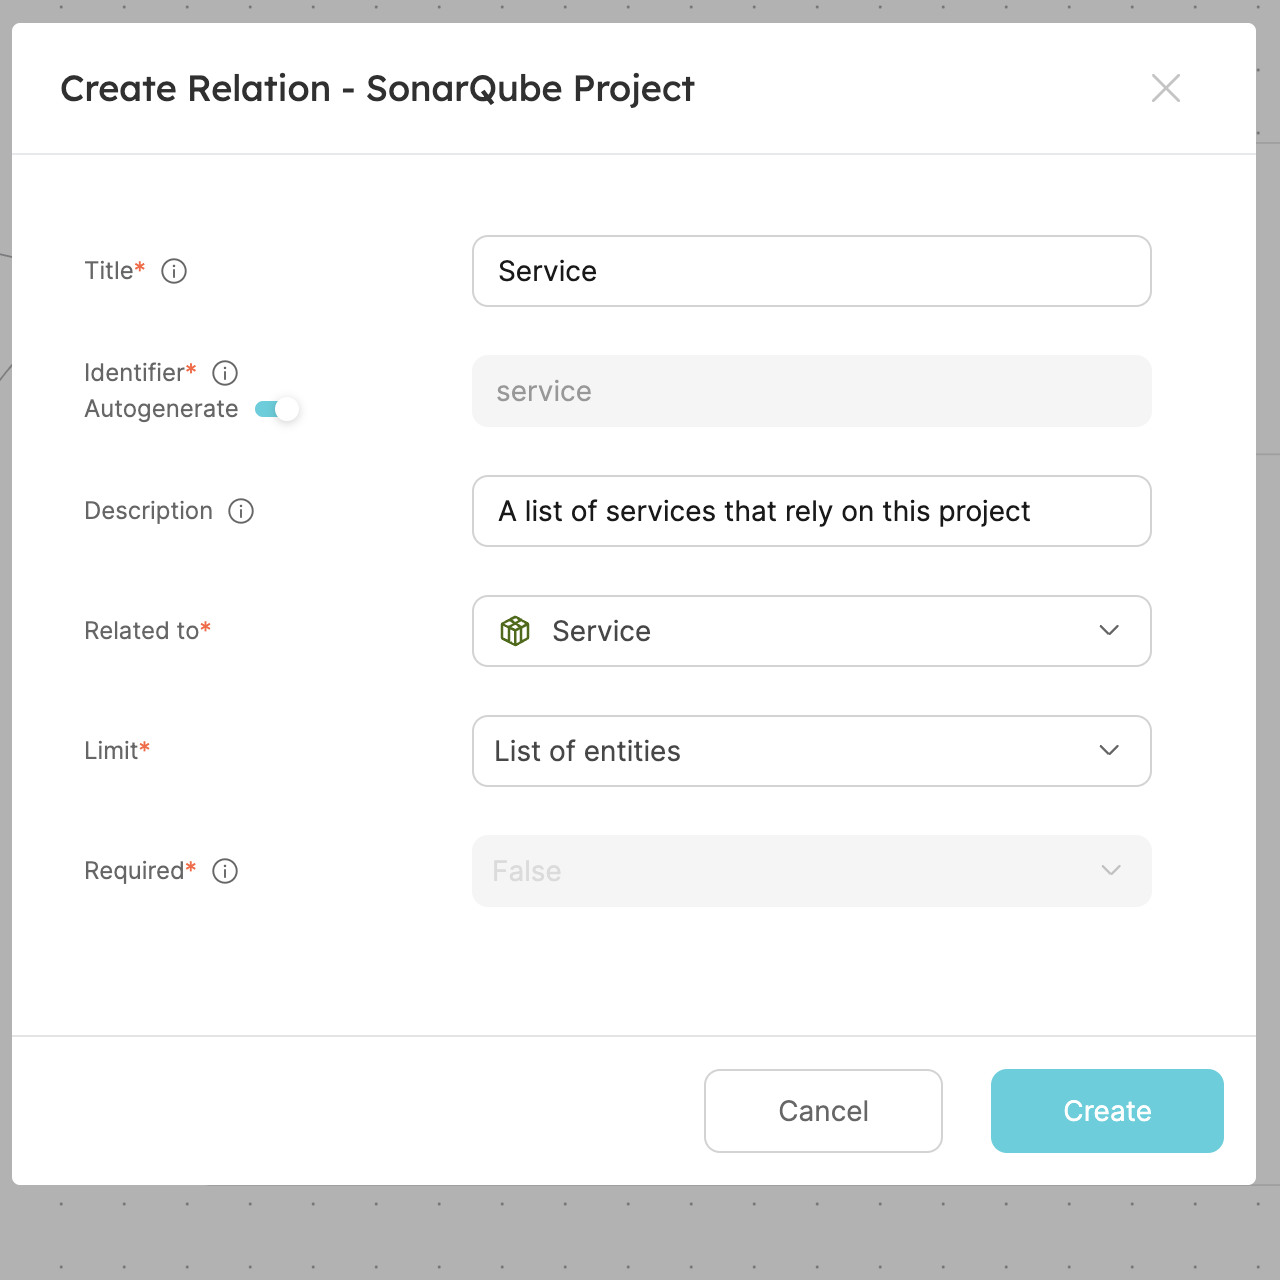
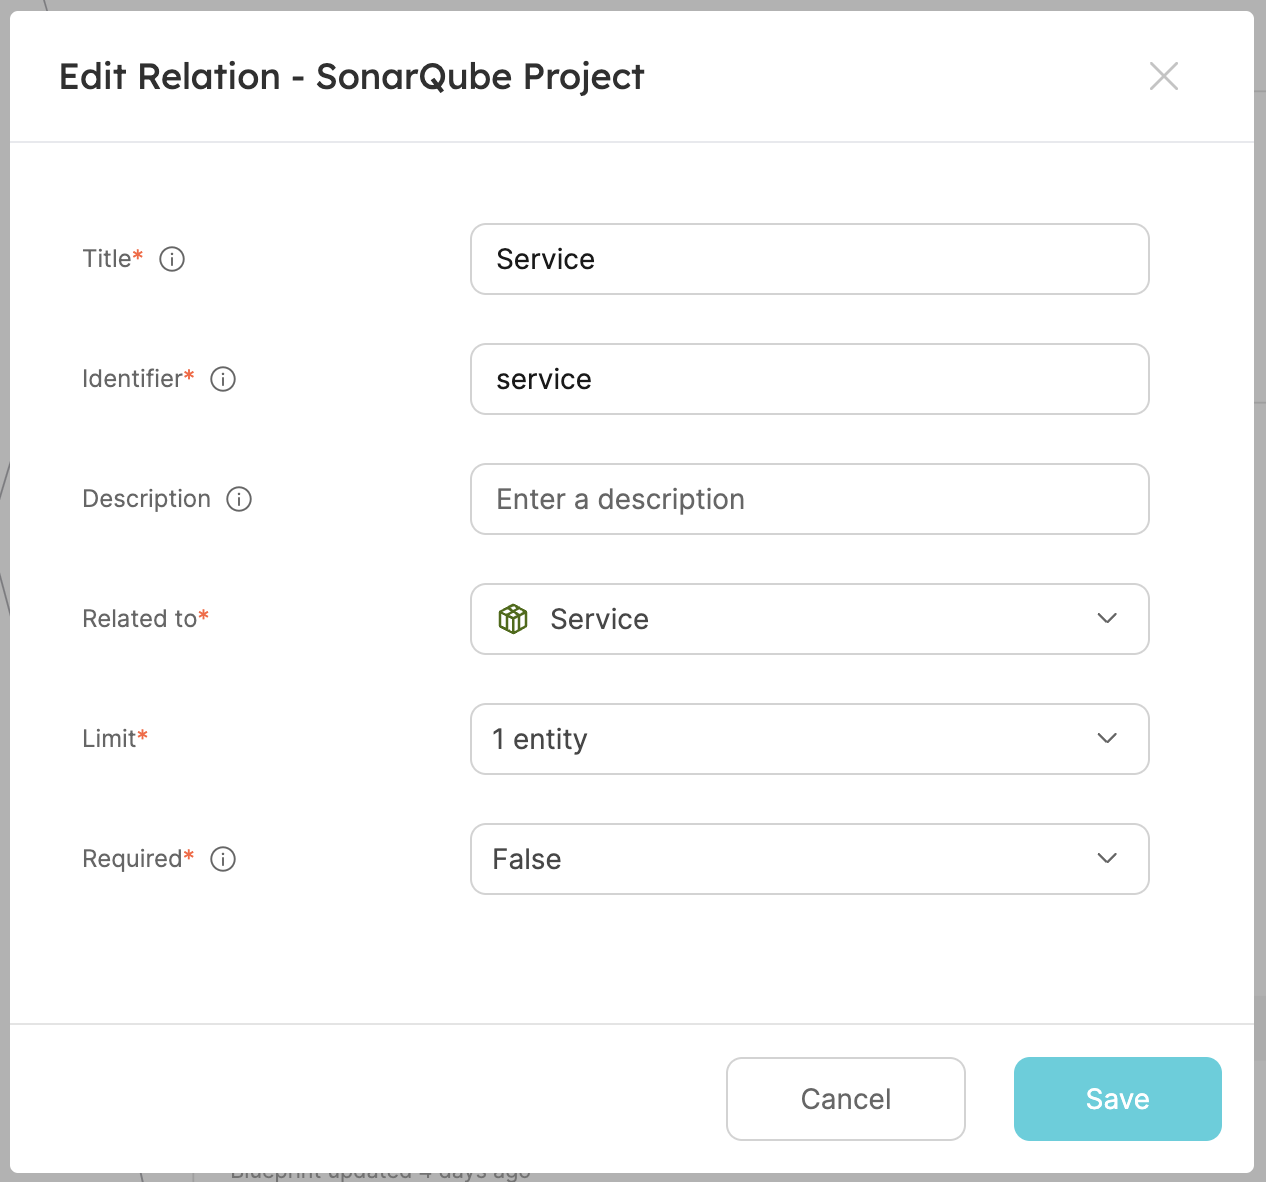
make relation not many, and move to sonarqube docs page

diff --git a/docs/build-your-software-catalog/sync-data-to-catalog/code-quality-security/sonarqube.md b/docs/build-your-software-catalog/sync-data-to-catalog/code-quality-security/sonarqube.md
@@ -1,5 +1,6 @@
 import Tabs from "@theme/Tabs"
 import TabItem from "@theme/TabItem"
+import PortTooltip from "/src/components/tooltip/tooltip.jsx"
 import HelmPrerequisites from "../templates/\_ocean_helm_prerequisites_block.mdx"
 import HelmParameters from "../templates/\_ocean-advanced-parameters-helm.mdx"
 import ResourceMapping from "../templates/\_resource-mapping.mdx"
@@ -1160,3 +1161,154 @@ The combination of the sample payload and the webhook configuration generates th
 }
 ```
 </details>
+
+
+
+## Connect SonarQube project with service
+
+This guide aims to cover how to connect a SonarQube project with an existing service in Port.
+
+:::tip Prerequisites
+
+- This guide assumes you have a Port account and that you have finished the [onboarding process](/quickstart). We will use the `Service` blueprint that was created during the onboarding process.
+- Ensure you have SonarQube installed and configured in your environment.
+- You will need an accessible k8s cluster. If you don't have one, here is how to quickly set-up a [minikube cluster](https://minikube.sigs.k8s.io/docs/start/).
+- [Helm](https://helm.sh/docs/intro/install/) - required to install a relevant integration.
+
+:::
+
+<br/>
+
+### Integrate SonarQube into Port
+
+The goal of this section is to bring our SonarQube data into Port. [Port's SonarQube integration](https://docs.getport.io/build-your-software-catalog/sync-data-to-catalog/code-quality-security/sonarqube) (powered by [Ocean](https://ocean.getport.io/)) allows you to import `projects`, `issues` and `analyses` from your SonarQube account into Port. The integration automatically creates <PortTooltip id="blueprint">blueprints</PortTooltip> and <PortTooltip id="entity">entities</PortTooltip> for these resources.
+
+:::info Note
+For this installation you will need Helm and a running K8s cluster.
+:::
+
+1. Install Port's SonarQube integration using Helm, by running the command below in your terminal.
+
+- Replace `CLIENT_ID` and `CLIENT_SECRET` with your credentials (get them [here](https://docs.getport.io/build-your-software-catalog/sync-data-to-catalog/api/#find-your-port-credentials)).
+
+- Replace `sonarApiToken` with your SonarQube token. To obtain it, [follow this documentation](https://docs.sonarsource.com/sonarqube/9.8/user-guide/user-account/generating-and-using-tokens/#generating-a-token)
+
+- Replace `sonarOrganizationId` with your SonarQube organization ID. To obtain it, [follow this documentation](https://docs.sonarsource.com/sonarcloud/appendices/project-information/#project-and-organization-keys). Note that the SonarQube organization ID is not required when using on-prem sonarqube instance.
+
+<details>
+<summary>Installation command (click to expand)</summary>
+
+```bash showLineNumbers
+helm repo add --force-update port-labs https://port-labs.github.io/helm-charts
+helm upgrade --install my-sonarqube-integration port-labs/port-ocean \
+	--set port.clientId="PORT_CLIENT_ID"  \  # REPLACE VALUE
+	--set port.clientSecret="PORT_CLIENT_SECRET"  \  # REPLACE VALUE
+	--set initializePortResources=true  \
+	--set integration.identifier="my-sonarqube-integration"  \
+	--set integration.type="sonarqube"  \
+	--set integration.eventListener.type="POLLING"  \
+	--set integration.secrets.sonarApiToken="MY_API_TOKEN"  \  # REPLACE VALUE
+	--set integration.config.sonarOrganizationId="MY_ORG_KEY"  # REPLACE VALUE
+```
+</details>
+
+Great! Now that the integration is installed, we should see some new components in Port:
+
+- Go to your [Builder](https://app.getport.io/dev-portal/data-model), you should now see three new <PortTooltip id="blueprint">blueprints</PortTooltip> created by the integration - `SonarQube Project`, `SonarQube Issue` and `SonarQube Analysis`.
+- Go to your [Software catalog](https://app.getport.io/services), click on `SonarQube Project` in the sidebar, you should now see new <PortTooltip id="entity">entities</PortTooltip> created for all your projects.
+
+### Add tags to projects in SonarQube
+
+Tagging projects in SonarQube allows you to categorize and label your projects based on various attributes such as technology stack, business domain, team ownership etc. In this guide, we will add a tag attribute to tell us the name of the service that implements the project:
+
+1. Login to your [SonarQube account](https://www.sonarsource.com/)
+2. Once logged in, navigate to the projects panel and choose the project you want to tag
+3. Within the project dashboard, locate the **Project Information** tab specific to the selected project
+4. Look for a section labeled **Tags** or similar. This is where you can manage tags associated with the project
+5. To add a new tag, click on the **plus** icon and type the tag name (`port-auth-service`) into the input field provided. For this guide, let's assume there is a service entity identified by `auth-service` in your `Service` blueprint in Port. 
+
+<img src='/img/guides/sonarProjectAddTags.png' width='60%' />
+
+:::note Control the tag name
+Since our `SonarQube project` may already have several tags, we will need a mechanism to control how these tags will be related to our `Service` blueprint. A way to achieve this relation is to prefix the tag name with the keyword `port-`. We will then use JQ to select the tags that starts with this keyword. So, our example tag will be named `port-auth-service`, which will correspond to a Service entity identified by `auth-service` in Port.
+:::
+
+
+### Create the service relation
+
+Now that Port is synced with our SonarQube resources, let's reflect the SonarQube project in our services to display the projects used in a service.
+First, we will need to create a [relation](/build-your-software-catalog/define-your-data-model/relate-blueprints/#what-is-a-relation) between our services and the corresponding Sonarqube project.
+
+1. Head back to the [Builder](https://app.getport.io/dev-portal/data-model), choose the `SonarQube Project` <PortTooltip id="blueprint">blueprint</PortTooltip>, and click on `New relation`:
+
+<img src='/img/guides/sonarProjectCreateRelation.png' width='60%' />
+
+<br/><br/>
+
+2. Fill out the form like this, then click `Create`:
+
+<img src='/img/guides/sonarProjectEditRelation.png' width='60%' />
+
+<br/><br/>
+
+Now that the <PortTooltip id="blueprint">blueprints</PortTooltip> are related, we need to assign the relevant SonarQube project to each of our services. This can be done by adding some mapping logic. Go to your [data sources page](https://app.getport.io/dev-portal/data-sources), and click on your SonarQube integration:
+
+<img src='/img/guides/sonarQubeIntegrationDataSources.png' />
+
+<br/><br/>
+
+Under the `resources` key, modify the mapping for the `projects` kind by using the following YAML block. Then click `Save & Resync`:
+
+<details>
+<summary>Relation mapping (click to expand)</summary>
+
+```yaml showLineNumbers
+  - kind: projects
+    selector:
+      query: 'true'
+    port:
+      entity:
+        mappings:
+          identifier: .key
+          title: .name
+          blueprint: '"sonarQubeProject"'
+          properties:
+            organization: .organization
+            link: .__link
+            lastAnalysisStatus: .__branch.status.qualityGateStatus
+            lastAnalysisDate: .__branch.analysisDate
+            numberOfBugs: .__measures[]? | select(.metric == "bugs") | .value
+            numberOfCodeSmells: .__measures[]? | select(.metric == "code_smells") | .value
+            numberOfVulnerabilities: .__measures[]? | select(.metric == "vulnerabilities") | .value
+            numberOfHotSpots: .__measures[]? | select(.metric == "security_hotspots") | .value
+            numberOfDuplications: .__measures[]? | select(.metric == "duplicated_files") | .value
+            coverage: .__measures[]? | select(.metric == "coverage") | .value
+            mainBranch: .__branch.name
+          relations:
+            service: .tags | map(select(startswith("port"))) | map(sub("port-"; ""; "g")) | .[0]
+```
+
+</details>
+
+:::tip JQ explanation
+
+The JQ below selects all tags that start with the keyword `port`. It then removes "port-" from each tag, leaving only the part that comes after it. It then selects the first match, which is equivalent to the service in Port.
+
+```yaml
+service: .tags | map(select(startswith("port"))) | map(sub("port-"; ""; "g")) | .[0]
+```
+:::
+
+What we just did was map the `SonarQube Project` to the relation between it and our `Services`.  
+Now, if our `Service` identifier is equal to the SonarQube project tag, the `service` will automatically be linked to it &nbsp;🎉
+
+![entitiesAfterServiceMapping](/img/guides/entitiesAfterServiceMapping.png)
+
+### Conclusion
+
+By following these steps, you can seamlessly connect a SonarQube project with an existing service blueprint in Port using project tags.
+
+More relevant guides and examples:
+
+- [Port's SonarQube integration](https://docs.getport.io/build-your-software-catalog/sync-data-to-catalog/code-quality-security/sonarqube)
+- [Integrate scorecards with Slack](https://docs.getport.io/promote-scorecards/manage-using-3rd-party-apps/slack)

diff --git a/docs/guides-and-tutorials/guides-and-tutorials.md b/docs/guides-and-tutorials/guides-and-tutorials.md
@@ -17,5 +17,3 @@ All guides take less than 10 minutes to complete ✅
 - [Visualize your services' k8s runtime](/guides-and-tutorials/visualize-service-k8s-runtime)
 - [Let developers enrich services using Gitops](/guides-and-tutorials/let-developers-enrich-services-using-gitops)
 - [Get started with AWS](/guides-and-tutorials/get-started-with-aws)
-- [Connect sonarqube project with service](/guides-and-tutorials/connect-sonarqube-project-with-service)
-
